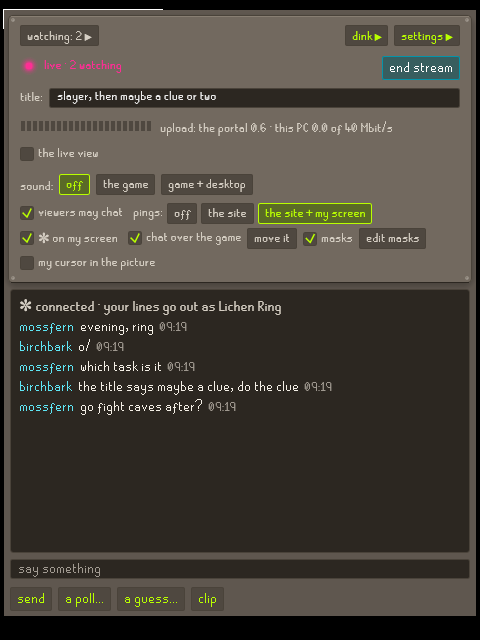
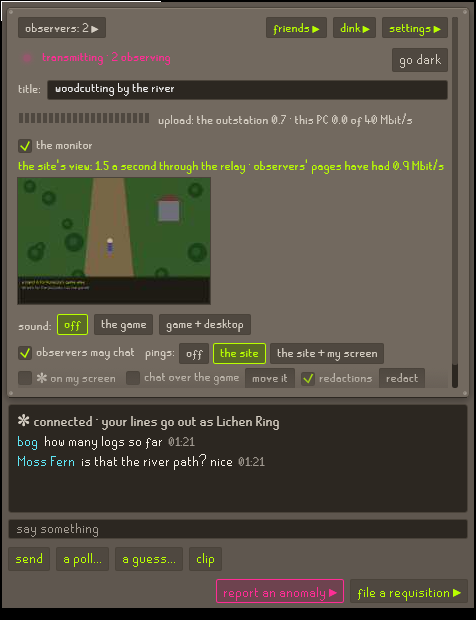
New pictures in the README: the first screen, attached and dark, transmitting with two observers chatting, and the viewer on the Outside page (under Wine, a drawn stand-in in RuneLite's place)
Claude-Session: https://claude.ai/code/session_015m6iukjiV4VB1cy29FBpGF

diff --git a/README.md b/README.md
@@ -11,12 +11,15 @@ An outstation on your PC, transmitting your RuneLite to your Outside page on [gh
 **Is it safe for my account?** It does what streaming software does and nothing more: it never touches RuneLite or the game, and it can't press a key or click for you. [SAFETY.md](SAFETY.md) says it in plain words: what's in the picture, everything that leaves your PC and where it goes, everything that comes back and what none of it can do, what the relay keeps, and how to check every line yourself.
 
 <p>
-  <img src="docs/pictures/first.png" width="32%" alt="the first screen: paste a station key, or request one with your player's name and a note">
-  <img src="docs/pictures/ready.png" width="32%" alt="attached and dark, the station check ticking RuneLite, logged in, the relay and Dink">
-  <img src="docs/pictures/live.png" width="32%" alt="transmitting, with two observers chatting">
+  <img src="docs/pictures/first.png" width="32%" alt="the first screen: paste a station key, request one, or report an anomaly">
+  <img src="docs/pictures/ready.png" width="32%" alt="attached and dark, the station check ticking RuneLite, the relay and Dink">
+  <img src="docs/pictures/live.png" width="32%" alt="transmitting, with two observers chatting and the monitor showing what went out">
+</p>
+<p>
+  <img src="docs/pictures/viewer.png" width="60%" alt="the viewer on the player's Outside page: the picture, a field report, and the two observers' chat">
 </p>
 
-The first screen, ready to transmit, and transmitting with two observers chatting. (Pictured under Wine, with a stand-in window in RuneLite's place, before the name was outstation: some words in them are the old ones.)
+The first screen; attached and dark, ready to transmit; transmitting, with two observers chatting; and what they see on the player's Outside page. (Pictured under Wine, with a drawn stand-in in RuneLite's place.)
 
 **Its words.** The window speaks ⊂λ,ｍ⊙'s language. Your **station key** is the code that attaches it to your channel; **transmitting** is live and **dark** is off air; **observers** are your viewers, and **on standby** the ones waiting for a seat; **the tape** is the replay buffer (the last seconds, always rolling); **redactions** are masks; **the monitor** is the small live view of what went out; **field reports** are Dink's posts; **the station check** is the ready check. The keeper **issues** keys, **denies** a request, **re-keys** a channel (a new key; the old one stops working) and **stands one down** (takes it back).
 
